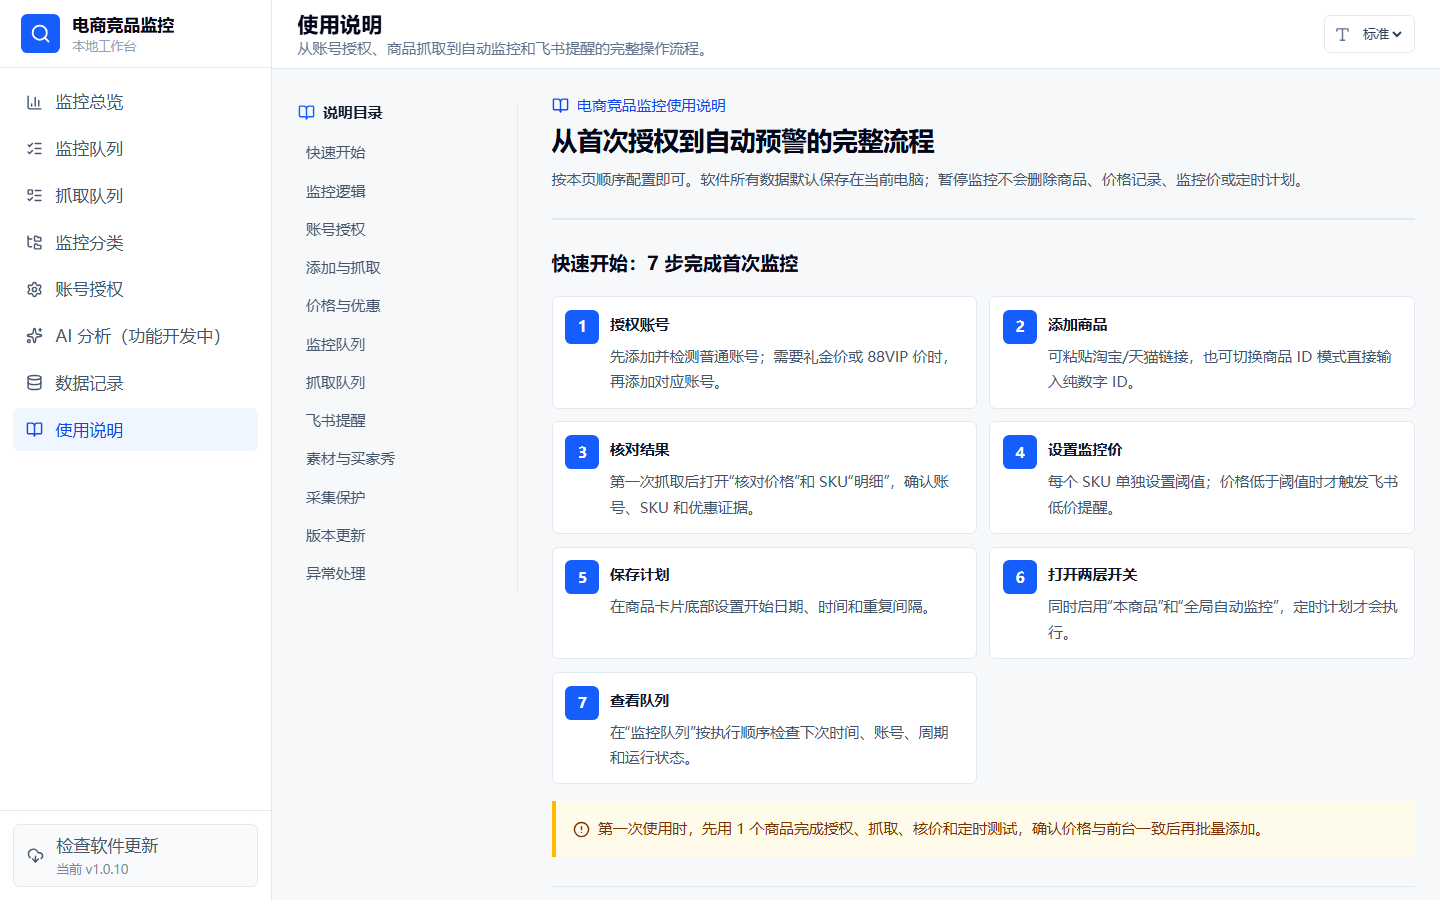
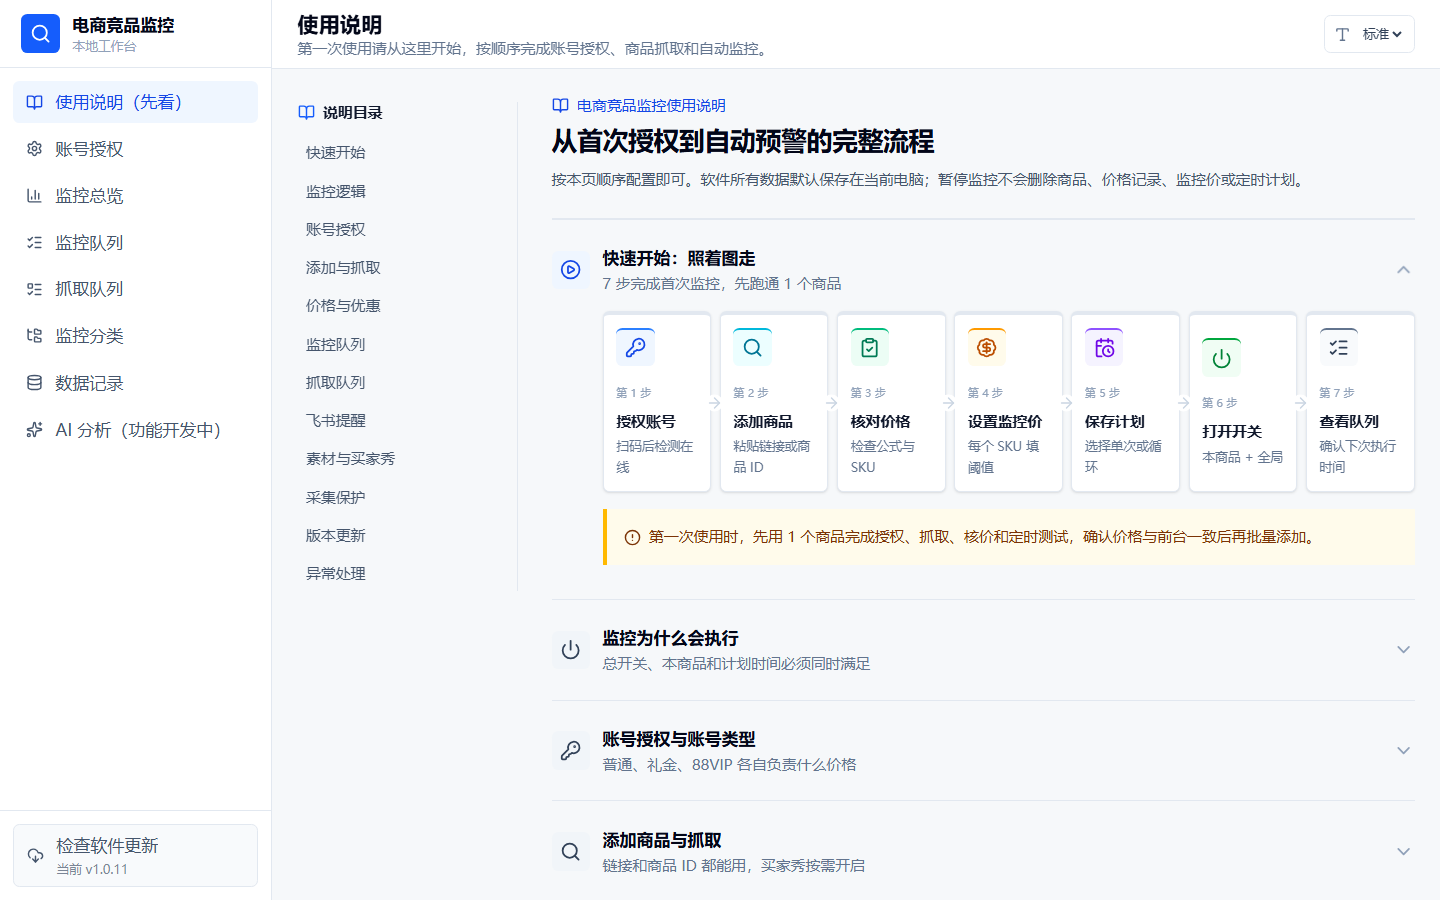
feat: add guided onboarding and update reminders

diff --git a/src/features/help/HelpCenter.tsx b/src/features/help/HelpCenter.tsx
@@ -1,4 +1,5 @@
-import { BellRing, BookOpen, CircleAlert, CircleCheck, CloudDownload, Download, KeyRound, ListChecks, Search, ShieldCheck, TimerReset } from 'lucide-react'
+import { ArrowRight, BadgeDollarSign, BellRing, BookOpen, CalendarClock, ChevronDown, CircleAlert, CircleCheck, ClipboardCheck, CloudDownload, Download, KeyRound, ListChecks, PlayCircle, Power, Search, ShieldCheck, TimerReset } from 'lucide-react'
+import type { LucideIcon } from 'lucide-react'
 
 const sections = [
   ['guide-start', '快速开始'],
@@ -16,30 +17,36 @@ const sections = [
 ] as const
 
 const steps = [
-  ['授权账号', '先添加并检测普通账号；需要礼金价或 88VIP 价时，再添加对应账号。'],
-  ['添加商品', '可粘贴淘宝/天猫链接，也可切换商品 ID 模式直接输入纯数字 ID。'],
-  ['核对结果', '第一次抓取后打开“核对价格”和 SKU“明细”，确认账号、SKU 和优惠证据。'],
-  ['设置监控价', '每个 SKU 单独设置阈值；价格低于阈值时才触发飞书低价提醒。'],
-  ['保存计划', '在商品卡片底部设置开始日期、时间和重复间隔。'],
-  ['打开两层开关', '同时启用“本商品”和“全局自动监控”，定时计划才会执行。'],
-  ['查看队列', '在“监控队列”按执行顺序检查下次时间、账号、周期和运行状态。'],
+  { title: '授权账号', caption: '扫码后检测在线', icon: KeyRound, tone: 'border-blue-500 bg-blue-50 text-blue-700', page: 'auth' },
+  { title: '添加商品', caption: '粘贴链接或商品 ID', icon: Search, tone: 'border-cyan-500 bg-cyan-50 text-cyan-700', page: 'overview' },
+  { title: '核对价格', caption: '检查公式与 SKU', icon: ClipboardCheck, tone: 'border-emerald-500 bg-emerald-50 text-emerald-700', page: 'overview' },
+  { title: '设置监控价', caption: '每个 SKU 填阈值', icon: BadgeDollarSign, tone: 'border-amber-500 bg-amber-50 text-amber-700', page: 'overview' },
+  { title: '保存计划', caption: '选择单次或循环', icon: CalendarClock, tone: 'border-violet-500 bg-violet-50 text-violet-700', page: 'overview' },
+  { title: '打开开关', caption: '本商品 + 全局', icon: Power, tone: 'border-green-600 bg-green-50 text-green-700', page: 'overview' },
+  { title: '查看队列', caption: '确认下次执行时间', icon: ListChecks, tone: 'border-slate-500 bg-slate-50 text-slate-700', page: 'queue' },
 ] as const
 
-function Section({ id, title, children }: { id: string; title: string; children: React.ReactNode }) {
-  return <section id={id} className="scroll-mt-24 border-t border-slate-200 py-7 first:border-t-0 first:pt-0"><h2 className="text-lg font-semibold text-slate-950">{title}</h2><div className="mt-4 space-y-4 text-sm leading-7 text-slate-650">{children}</div></section>
+function Section({ id, title, summary, icon: Icon, featured = false, children }: { id: string; title: string; summary: string; icon: LucideIcon; featured?: boolean; children: React.ReactNode }) {
+  return <details id={id} open={featured} className="group scroll-mt-24 border-t border-slate-200 py-2 first:border-t-0 first:pt-0"><summary className="flex cursor-pointer list-none items-center gap-3 py-4"><span className="flex h-9 w-9 shrink-0 items-center justify-center rounded-md bg-slate-100 text-slate-700 group-open:bg-blue-50 group-open:text-blue-700"><Icon className="h-5 w-5" /></span><span className="min-w-0 flex-1"><span className="block text-base font-semibold text-slate-950">{title}</span><span className="mt-0.5 block text-sm text-slate-500">{summary}</span></span><ChevronDown className="h-5 w-5 shrink-0 text-slate-400 transition-transform group-open:rotate-180" /></summary><div className="space-y-4 pb-6 pl-12 text-sm leading-7 text-slate-650 max-[700px]:pl-0">{children}</div></details>
 }
 
 function Checklist({ items }: { items: string[] }) {
   return <ul className="space-y-2">{items.map((item) => <li key={item} className="flex items-start gap-2"><CircleCheck className="mt-1.5 h-4 w-4 shrink-0 text-emerald-600" /><span>{item}</span></li>)}</ul>
 }
 
-export function HelpCenter() {
+export function HelpCenter({ onNavigate }: { onNavigate: (page: 'auth' | 'overview' | 'queue') => void }) {
+  function openSection(id: string) {
+    const element = document.getElementById(id)
+    if (element instanceof HTMLDetailsElement) element.open = true
+    element?.scrollIntoView({ behavior: 'smooth', block: 'start' })
+  }
+
   return (
     <div className="grid grid-cols-[220px_minmax(0,1fr)] items-start gap-8 max-[1180px]:grid-cols-1">
       <aside className="sticky top-24 border-r border-slate-200 pr-5 max-[1180px]:static max-[1180px]:border-b max-[1180px]:border-r-0 max-[1180px]:pb-4 max-[1180px]:pr-0">
         <div className="flex items-center gap-2 text-sm font-semibold text-slate-900"><BookOpen className="h-4 w-4 text-blue-600" />说明目录</div>
         <nav className="mt-3 space-y-1 max-[1180px]:flex max-[1180px]:flex-wrap max-[1180px]:gap-1 max-[1180px]:space-y-0">
-          {sections.map(([id, label]) => <a key={id} href={`#${id}`} className="block rounded px-2 py-1.5 text-sm text-slate-600 hover:bg-blue-50 hover:text-blue-700">{label}</a>)}
+          {sections.map(([id, label]) => <a key={id} href={`#${id}`} onClick={(event) => { event.preventDefault(); openSection(id) }} className="block rounded px-2 py-1.5 text-sm text-slate-600 hover:bg-blue-50 hover:text-blue-700">{label}</a>)}
         </nav>
       </aside>
 
@@ -50,19 +57,22 @@ export function HelpCenter() {
           <p className="mt-2 max-w-3xl text-sm leading-6 text-slate-600">按本页顺序配置即可。软件所有数据默认保存在当前电脑；暂停监控不会删除商品、价格记录、监控价或定时计划。</p>
         </div>
 
-        <Section id="guide-start" title="快速开始：7 步完成首次监控">
-          <div className="grid grid-cols-2 gap-3 max-[900px]:grid-cols-1">
-            {steps.map(([title, description], index) => (
-              <div key={title} className="grid grid-cols-[32px_minmax(0,1fr)] gap-3 rounded-md border border-slate-200 bg-white p-3">
-                <div className="flex h-8 w-8 items-center justify-center rounded-md bg-blue-600 text-sm font-semibold text-white">{index + 1}</div>
-                <div><div className="font-semibold text-slate-900">{title}</div><div className="mt-1 text-sm leading-6 text-slate-600">{description}</div></div>
-              </div>
+        <Section id="guide-start" title="快速开始：照着图走" summary="7 步完成首次监控，先跑通 1 个商品" icon={PlayCircle} featured>
+          <div className="grid grid-cols-7 gap-2 max-[1100px]:grid-cols-4 max-[700px]:grid-cols-2">
+            {steps.map(({ title, caption, icon: Icon, tone, page }, index) => (
+              <button key={title} type="button" onClick={() => onNavigate(page)} className="relative min-h-32 rounded-md border border-slate-200 border-t-4 bg-white p-3 text-left shadow-sm transition-colors hover:border-blue-300 hover:bg-blue-50/30 focus-visible:outline-2 focus-visible:outline-offset-2 focus-visible:outline-blue-600" aria-label={`${title}，打开对应功能`}>
+                <div className={`flex h-9 w-9 items-center justify-center rounded-md border-t-2 ${tone}`}><Icon className="h-5 w-5" /></div>
+                <div className="mt-3 text-[11px] font-medium text-slate-400">第 {index + 1} 步</div>
+                <div className="mt-0.5 font-semibold leading-5 text-slate-900">{title}</div>
+                <div className="mt-1 text-xs leading-5 text-slate-500">{caption}</div>
+                {index < steps.length - 1 && <ArrowRight className="absolute -right-3 top-1/2 z-[1] h-4 w-4 -translate-y-1/2 rounded-full bg-white text-slate-300 max-[1100px]:hidden" />}
+              </button>
             ))}
           </div>
           <div className="flex items-start gap-2 border-l-4 border-amber-400 bg-amber-50 px-4 py-3 text-amber-900"><CircleAlert className="mt-1.5 h-4 w-4 shrink-0" /><span>第一次使用时，先用 1 个商品完成授权、抓取、核价和定时测试，确认价格与前台一致后再批量添加。</span></div>
         </Section>
 
-        <Section id="guide-monitor" title="监控逻辑：三个条件同时满足才会自动抓取">
+        <Section id="guide-monitor" title="监控为什么会执行" summary="总开关、本商品和计划时间必须同时满足" icon={Power}>
           <div className="grid grid-cols-[1fr_auto_1fr_auto_1fr_auto_1fr] items-stretch gap-2 max-[900px]:grid-cols-1">
             {[
               ['全局自动监控', '控制整个软件是否执行后台定时任务'],
@@ -79,13 +89,13 @@ export function HelpCenter() {
           ]} />
         </Section>
 
-        <Section id="guide-account" title="账号授权与账号类型">
+        <Section id="guide-account" title="账号授权与账号类型" summary="普通、礼金、88VIP 各自负责什么价格" icon={KeyRound}>
           <div className="flex items-start gap-3"><KeyRound className="mt-1 h-5 w-5 shrink-0 text-blue-600" /><div><p>打开“账号授权”，填写账号备注并选择类型，然后点击扫码授权。淘宝 App 扫码完成后，必须点击“检测登录”，状态有效才会参与抓取。</p></div></div>
           <div className="overflow-x-auto"><table className="w-full border-collapse text-left text-sm"><thead><tr className="border-y border-slate-200 bg-slate-50 text-slate-600"><th className="px-3 py-2">账号类型</th><th className="px-3 py-2">主要用途</th><th className="px-3 py-2">重要说明</th></tr></thead><tbody className="divide-y divide-slate-100"><tr><td className="px-3 py-3 font-medium">普通账号</td><td className="px-3 py-3">普通价、淘宝秒杀价、惊喜立减价、淘金币价</td><td className="px-3 py-3">礼金与 88VIP 计算也需要公共价格基准，建议至少保持一个普通账号在线。</td></tr><tr><td className="px-3 py-3 font-medium">礼金账号</td><td className="px-3 py-3">首单礼金、新人专享等资格价</td><td className="px-3 py-3">没有真实礼金资格时显示“未获取”，不会拿标价代替。</td></tr><tr><td className="px-3 py-3 font-medium">88VIP 账号</td><td className="px-3 py-3">88VIP 专享价格</td><td className="px-3 py-3">必须由对应账号页面返回可信权益依据。</td></tr></tbody></table></div>
           <Checklist items={['“一键检测全部”只检查登录状态，不会开始抓取。', '账号失效时优先点击“重新授权”，不必删除账号卡片。', '一个账号固定使用自己的浏览器资料目录，关闭抓取窗口不会删除登录状态。']} />
         </Section>
 
-        <Section id="guide-product" title="添加商品与抓取">
+        <Section id="guide-product" title="添加商品与抓取" summary="链接和商品 ID 都能用，买家秀按需开启" icon={Search}>
           <div className="flex items-start gap-3"><Search className="mt-1 h-5 w-5 shrink-0 text-blue-600" /><div><p><strong>链接模式：</strong>粘贴淘宝或天猫商品链接，软件会自动删除跟踪参数，只保留平台、商品路径和商品 ID。</p><p className="mt-2"><strong>商品 ID 模式：</strong>只输入纯数字 ID，选择淘宝或天猫，软件会自动补全有效地址前缀。</p></div></div>
           <Checklist items={[
             '单个添加会创建商品并立即抓取；新商品默认处于“本商品未启用”，先核对数据再加入监控。',
@@ -96,7 +106,7 @@ export function HelpCenter() {
           ]} />
         </Section>
 
-        <Section id="guide-price" title="价格、优惠明细与监控价">
+        <Section id="guide-price" title="价格、优惠明细与监控价" summary="不同价格独立核验，监控价按 SKU 设置" icon={BadgeDollarSign}>
           <div className="overflow-x-auto"><table className="w-full border-collapse text-left text-sm"><thead><tr className="border-y border-slate-200 bg-slate-50 text-slate-600"><th className="px-3 py-2">价格</th><th className="px-3 py-2">含义</th><th className="px-3 py-2">未获取时</th></tr></thead><tbody className="divide-y divide-slate-100"><tr><td className="px-3 py-3 font-medium text-sky-700">普通/淘宝秒杀价</td><td className="px-3 py-3">平台公共优惠或秒杀公式验证后的当前价格</td><td className="px-3 py-3">显示未验证，不使用标价猜测</td></tr><tr><td className="px-3 py-3 font-medium text-teal-700">国补价</td><td className="px-3 py-3">公共价格减去当前 SKU 明确返回的政府补贴</td><td className="px-3 py-3">显示未获取国补价</td></tr><tr><td className="px-3 py-3 font-medium text-rose-700">惊喜立减价</td><td className="px-3 py-3">国补价或公共价格再减明确的惊喜立减权益</td><td className="px-3 py-3">显示当前 SKU 无或未获取</td></tr><tr><td className="px-3 py-3 font-medium text-amber-700">淘金币价</td><td className="px-3 py-3">当前价格层级再减该账号和 SKU 的淘金币抵扣</td><td className="px-3 py-3">显示无淘金币</td></tr><tr><td className="px-3 py-3 font-medium text-orange-700">礼金价</td><td className="px-3 py-3">礼金账号资格价，与公共价格独立核对</td><td className="px-3 py-3">显示未获取</td></tr><tr><td className="px-3 py-3 font-medium text-violet-700">88VIP 价</td><td className="px-3 py-3">88VIP 账号专享价格，与公共价格独立核对</td><td className="px-3 py-3">显示未获取</td></tr></tbody></table></div>
           <Checklist items={[
             '“核对价格”逐 SKU 展示证据、金额和公式；验证不闭合时不会保存猜测值。',
@@ -106,17 +116,17 @@ export function HelpCenter() {
           ]} />
         </Section>
 
-        <Section id="guide-queue" title="监控队列怎么用">
+        <Section id="guide-queue" title="监控队列怎么用" summary="只看已启用商品、计划时间和执行顺序" icon={ListChecks}>
           <div className="flex items-start gap-3"><ListChecks className="mt-1 h-5 w-5 shrink-0 text-blue-600" /><p>“监控队列”只显示已启用商品，默认按下次抓取时间排列。全局暂停时商品仍保留在队列中，但状态会统一显示“等待全局开启”。</p></div>
           <Checklist items={['队列序号表示当前页面中的执行先后；下次时间相同的商品仍受最多 5 个并发限制。', '“抓取”只立即执行当前商品，并遵守账号状态和采集保护。', '“移出”只暂停本商品自动监控，商品卡片、历史价格、监控价和计划都保留。', '在总览或分类重新点击“启用本商品”，商品会立即回到队列。']} />
         </Section>
 
-        <Section id="guide-capture-queue" title="抓取队列：刷新页面不会丢任务">
+        <Section id="guide-capture-queue" title="抓取队列怎么用" summary="查看当前排队和进度，刷新页面不会丢任务" icon={TimerReset}>
           <div className="flex items-start gap-3"><ListChecks className="mt-1 h-5 w-5 shrink-0 text-blue-600" /><p>“抓取队列”记录单品、批量和定时抓取的排队顺序、实时进度与结果。任务由后端执行，刷新页面或切换菜单只会重载界面，不会取消任务。</p></div>
           <Checklist items={['同一时间执行一个队列任务；批量任务内部仍最多并发 5 个商品。', '完成或失败项保留 5 秒用于确认结果，随后自动移出；长期结果在“数据记录”查看。', '退出整个软件会停止后端进程；未完成任务不会自动续跑，重新打开后按失败记录重试。']} />
         </Section>
 
-        <Section id="guide-feishu" title="飞书文档与机器人提醒">
+        <Section id="guide-feishu" title="飞书文档与机器人提醒" summary="文档每次写入，机器人只在低于监控价时提醒" icon={BellRing}>
           <div className="flex items-start gap-3"><BellRing className="mt-1 h-5 w-5 shrink-0 text-blue-600" /><p>在“账号授权”完成飞书扫码授权后，可创建价格文档；群机器人需要在飞书群中创建自定义机器人，再将 Webhook 和可选签名密钥填入软件。</p></div>
           <Checklist items={[
             '飞书文档：每次成功抓取后写入店铺、型号、SKU 和各类价格，不受机器人提醒冷却影响。',
@@ -126,22 +136,22 @@ export function HelpCenter() {
           ]} />
         </Section>
 
-        <Section id="guide-media" title="素材包与买家秀">
+        <Section id="guide-media" title="素材包与买家秀" summary="预览、单独下载和 ZIP 打包的使用方法" icon={Download}>
           <div className="flex items-start gap-3"><Download className="mt-1 h-5 w-5 shrink-0 text-blue-600" /><p>素材包按 800 主图、750 主图、SKU 图、详情图和真实视频分类打包。买家秀可预览图片、视频和文案，也可单条或批量下载。</p></div>
           <Checklist items={['新增商品时按需勾选“同时抓取买家秀”；不需要时关闭可缩短抓取时间。', '买家秀未开启或抓取失败时，仍可使用“仅重试买家秀”，不会重新计算价格或覆盖 SKU 数据。', '本次失败但历史曾成功时，预览继续显示上次有效缓存，并明确标注缓存状态。', '生成 ZIP 时等待状态变为“下载已开始”后再关闭软件。', '没有真实视频或媒体评价时不会生成占位内容。']} />
         </Section>
 
-        <Section id="guide-risk" title="采集保护、并发和浏览器">
+        <Section id="guide-risk" title="采集保护、并发和浏览器" summary="这是软件抓取间隔，不代表淘宝账号被风控" icon={ShieldCheck}>
           <div className="flex items-start gap-3"><ShieldCheck className="mt-1 h-5 w-5 shrink-0 text-blue-600" /><p>“采集保护”是本软件设置的访问间隔，不等于淘宝账号被风控。倒计时期间手动抓取按钮会说明剩余时间，可在账号授权页按账号类型调整或关闭。</p></div>
           <Checklist items={['批量添加、批量抓取和自动监控每批最多同时处理 5 个商品，其余排队。', '每个账号使用独立浏览器资料目录，抓取窗口在后台或最小化运行。', '频繁刷新、账号掉线、验证码或登录跳转属于平台状态；软件不会绕过安全验证。', '长期运行建议保留合理间隔；集中测试后再恢复采集保护。']} />
         </Section>
 
-        <Section id="guide-update" title="检查并安装新版本">
-          <div className="flex items-start gap-3"><CloudDownload className="mt-1 h-5 w-5 shrink-0 text-blue-600" /><p>侧边栏底部常驻“检查软件更新”。软件启动后会连接本项目 GitHub Releases 检查最新正式版，发现新版本时入口会高亮。</p></div>
+        <Section id="guide-update" title="检查并安装新版本" summary="自动检查、选择对应系统安装包并覆盖更新" icon={CloudDownload}>
+          <div className="flex items-start gap-3"><CloudDownload className="mt-1 h-5 w-5 shrink-0 text-blue-600" /><p>侧边栏底部常驻“检查软件更新”。软件会在启动以及从后台回到前台时连接 GitHub Releases，不会在后台频繁轮询；发现新版本会自动打开更新提醒，同一版本只主动提醒一次，关闭后入口仍会持续高亮。</p></div>
           <Checklist items={['点击更新入口可查看当前版本、最新版本、发布日期和更新说明。', '软件会根据 Windows、macOS Intel 或 macOS Apple Silicon 自动选择对应安装包。', '国内网络可优先使用“加速下载”；镜像不可用时切换“GitHub 原地址”。', '下载后先退出软件，再运行安装包覆盖安装；商品、历史记录、账号资料和飞书配置不会删除。', 'GitHub 暂时无法连接只会影响检查更新，不会影响本地监控与抓取。']} />
         </Section>
 
-        <Section id="guide-troubleshoot" title="常见异常与处理顺序">
+        <Section id="guide-troubleshoot" title="常见异常与处理顺序" summary="按问题展开，只看当前需要的处理步骤" icon={CircleAlert}>
           <div className="space-y-3">
             {[
               ['抓不到价格或价格不一致', '确认商品链接和 SKU → 检查普通账号在线 → 检查账号类型 → 打开核对价格 → 重新抓取。'],

diff --git a/src/App.tsx b/src/App.tsx
@@ -1,4 +1,4 @@
-import { useEffect, useState } from 'react'
+import { useEffect, useRef, useState } from 'react'
 import { BarChart3, BookOpen, CircleAlert, CircleCheck, CloudDownload, Database, FolderTree, ListChecks, ListTodo, LoaderCircle, PauseCircle, PlayCircle, RefreshCw, Search, Settings, Sparkles, Type, X } from 'lucide-react'
 import { api } from './lib/api'
 import { Button } from './components/ui/button'
@@ -23,24 +23,25 @@ import { UpdateDialog } from './features/updates/UpdateDialog'
 import type { AuthSession, Overview, Product, UpdateInfo } from './types/domain'
 
 const navItems = [
-  { id: 'overview', label: '监控总览', icon: BarChart3, title: '竞品价格与 SKU 图监控', subtitle: '通过限速队列和账号池轮换抓取，支持价格预警与趋势分析。' },
-  { id: 'queue', label: '监控队列', icon: ListChecks, title: '已监控商品队列', subtitle: '集中查看已启用商品的执行顺序、定时计划和运行状态。' },
-  { id: 'capture-queue', label: '抓取队列', icon: ListTodo, title: '抓取任务队列', subtitle: '查看排队和运行进度，完成项会自动移出，页面刷新不会取消后端任务。' },
-  { id: 'categories', label: '监控分类', icon: FolderTree, title: '店铺与型号自动分类', subtitle: '按店铺自动建小分类，再按产品型号归档监控数据。' },
-  { id: 'auth', label: '账号授权', icon: Settings, title: '淘宝与飞书账号授权', subtitle: '管理淘宝采价账号、飞书扫码授权、价格文档和机器人通知。' },
-  { id: 'analysis', label: 'AI 分析（功能开发中）', icon: Sparkles, title: 'AI 数据分析', subtitle: '基于历史抓取数据生成价格、SKU 和图片变化洞察。' },
+  { id: 'guide', label: '使用说明（先看）', icon: BookOpen, title: '使用说明', subtitle: '第一次使用请从这里开始，按顺序完成账号授权、商品抓取和自动监控。' },
+  { id: 'auth', label: '账号授权', icon: Settings, title: '淘宝与飞书账号授权', subtitle: '第一步：授权采价账号，再按需连接飞书文档和机器人通知。' },
+  { id: 'overview', label: '监控总览', icon: BarChart3, title: '竞品价格与 SKU 图监控', subtitle: '第二步：添加并核对商品，设置监控价、抓取计划和启用状态。' },
+  { id: 'queue', label: '监控队列', icon: ListChecks, title: '已监控商品队列', subtitle: '第三步：查看已启用商品的执行顺序、定时计划和运行状态。' },
+  { id: 'capture-queue', label: '抓取队列', icon: ListTodo, title: '抓取任务队列', subtitle: '查看当前排队和运行进度，完成项自动移出，页面刷新不会取消任务。' },
+  { id: 'categories', label: '监控分类', icon: FolderTree, title: '店铺与型号自动分类', subtitle: '按店铺和型号整理商品，再进行筛选、批量抓取或批量管理。' },
   { id: 'records', label: '数据记录', icon: Database, title: '数据记录与监控设置', subtitle: '查看历史快照、导出 CSV，并调整后台监控间隔。' },
-  { id: 'guide', label: '使用说明', icon: BookOpen, title: '使用说明', subtitle: '从账号授权、商品抓取到自动监控和飞书提醒的完整操作流程。' },
+  { id: 'analysis', label: 'AI 分析（功能开发中）', icon: Sparkles, title: 'AI 数据分析', subtitle: '基于历史抓取数据生成价格、SKU 和图片变化洞察。' },
 ] as const
 
 type PageId = (typeof navItems)[number]['id']
 type FontSize = 'small' | 'standard' | 'large'
+const UPDATE_NOTIFIED_VERSION_KEY = 'ecommerce-monitor-update-notified-version'
 
 function App() {
   const [overview, setOverview] = useState<Overview | null>(null)
   const [activePage, setActivePage] = useState<PageId>(() => {
     const saved = window.localStorage.getItem('tmall-monitor-active-page')
-    return navItems.some((item) => item.id === saved) ? saved as PageId : 'overview'
+    return navItems.some((item) => item.id === saved) ? saved as PageId : 'guide'
   })
   const [busy, setBusy] = useState(false)
   const [busyProductId, setBusyProductId] = useState('')
@@ -53,6 +54,7 @@ function App() {
   const [updateInfo, setUpdateInfo] = useState<UpdateInfo | null>(null)
   const [updateChecking, setUpdateChecking] = useState(false)
   const [updateError, setUpdateError] = useState('')
+  const updateCheckActive = useRef(false)
 
   async function refresh() {
     setOverview(await api.overview())
@@ -72,7 +74,15 @@ function App() {
   }, [])
 
   useEffect(() => {
-    checkUpdates(false).catch(() => undefined)
+    const check = () => checkUpdates(false, true).catch(() => undefined)
+    const checkWhenVisible = () => {
+      if (document.visibilityState === 'visible') check()
+    }
+    check()
+    document.addEventListener('visibilitychange', checkWhenVisible)
+    return () => {
+      document.removeEventListener('visibilitychange', checkWhenVisible)
+    }
   }, [])
 
   useEffect(() => {
@@ -93,15 +103,23 @@ function App() {
     return () => window.clearTimeout(timer)
   }, [notice, error])
 
-  async function checkUpdates(openDialog = true) {
+  async function checkUpdates(openDialog = true, automatic = false) {
     if (openDialog) setUpdateOpen(true)
+    if (updateCheckActive.current) return
+    updateCheckActive.current = true
     setUpdateChecking(true)
     setUpdateError('')
     try {
-      setUpdateInfo(await api.checkUpdate())
+      const info = await api.checkUpdate()
+      setUpdateInfo(info)
+      if (automatic && info.updateAvailable && window.localStorage.getItem(UPDATE_NOTIFIED_VERSION_KEY) !== info.latestVersion) {
+        window.localStorage.setItem(UPDATE_NOTIFIED_VERSION_KEY, info.latestVersion)
+        setUpdateOpen(true)
+      }
     } catch (reason) {
       setUpdateError(reason instanceof Error ? reason.message : '检查更新失败。')
     } finally {
+      updateCheckActive.current = false
       setUpdateChecking(false)
     }
   }
@@ -402,7 +420,7 @@ function App() {
     }
 
     if (activePage === 'guide') {
-      return <HelpCenter />
+      return <HelpCenter onNavigate={setActivePage} />
     }
 
     return (

diff --git a/README.md b/README.md
@@ -8,9 +8,9 @@
 
 - [下载最新版安装包](https://github.com/PMZPZM0/ecom-competitor-monitor/releases/latest)
 - [查看完整中文使用说明](docs/USER_GUIDE.md)
-- Windows：选择文件名包含 `Windows-x64.exe` 的安装包。
-- Intel 芯片 Mac：选择 `macOS-Intel.dmg`。
-- Apple M 系列芯片 Mac：选择 `macOS-AppleSilicon.dmg`。
+- Windows：选择文件名包含 `win-x64.exe` 的安装包。
+- Intel 芯片 Mac：选择文件名包含 `mac-x64.dmg` 的安装包。
+- Apple M 系列芯片 Mac：选择文件名包含 `mac-arm64.dmg` 的安装包。
 
 ## 界面预览
 
@@ -51,8 +51,9 @@
 - 分类管理：按店铺与型号归档，支持搜索、筛选、排序、批量抓取、批量下载和批量删除。
 - 飞书联动：内置官方 `@larksuite/cli`，支持扫码授权、价格文档同步和群机器人低价提醒；提醒冷却不影响抓取与文档写入。
 - 运行反馈：抓取、监控、飞书同步和下载任务均显示进行中、完成或失败原因。
-- 抓取队列：任务由后端排队并保留进度，刷新网页后仍可查看；完成/失败项 60 秒后自动移出，长期结果进入运行日志。
-- 软件更新：按当前系统自动选择安装包，国内镜像加速下载并保留 GitHub 原地址，展示文件大小和 SHA-256。
+- 新手引导：菜单按启用顺序排列，首次打开进入图形化 7 步流程，步骤卡可直接跳转到对应功能，详细说明按需展开。
+- 抓取队列：任务由后端排队并保留进度，刷新网页后仍可查看；完成/失败项 5 秒后自动移出，长期结果进入运行日志。
+- 软件更新：启动或回到前台时主动检查并提醒，按当前系统选择安装包，支持国内镜像加速下载和 SHA-256 核对。
 - 本地数据：商品、价格记录、账号浏览器目录和飞书配置默认保存在当前电脑。
 
 ## 本地开发